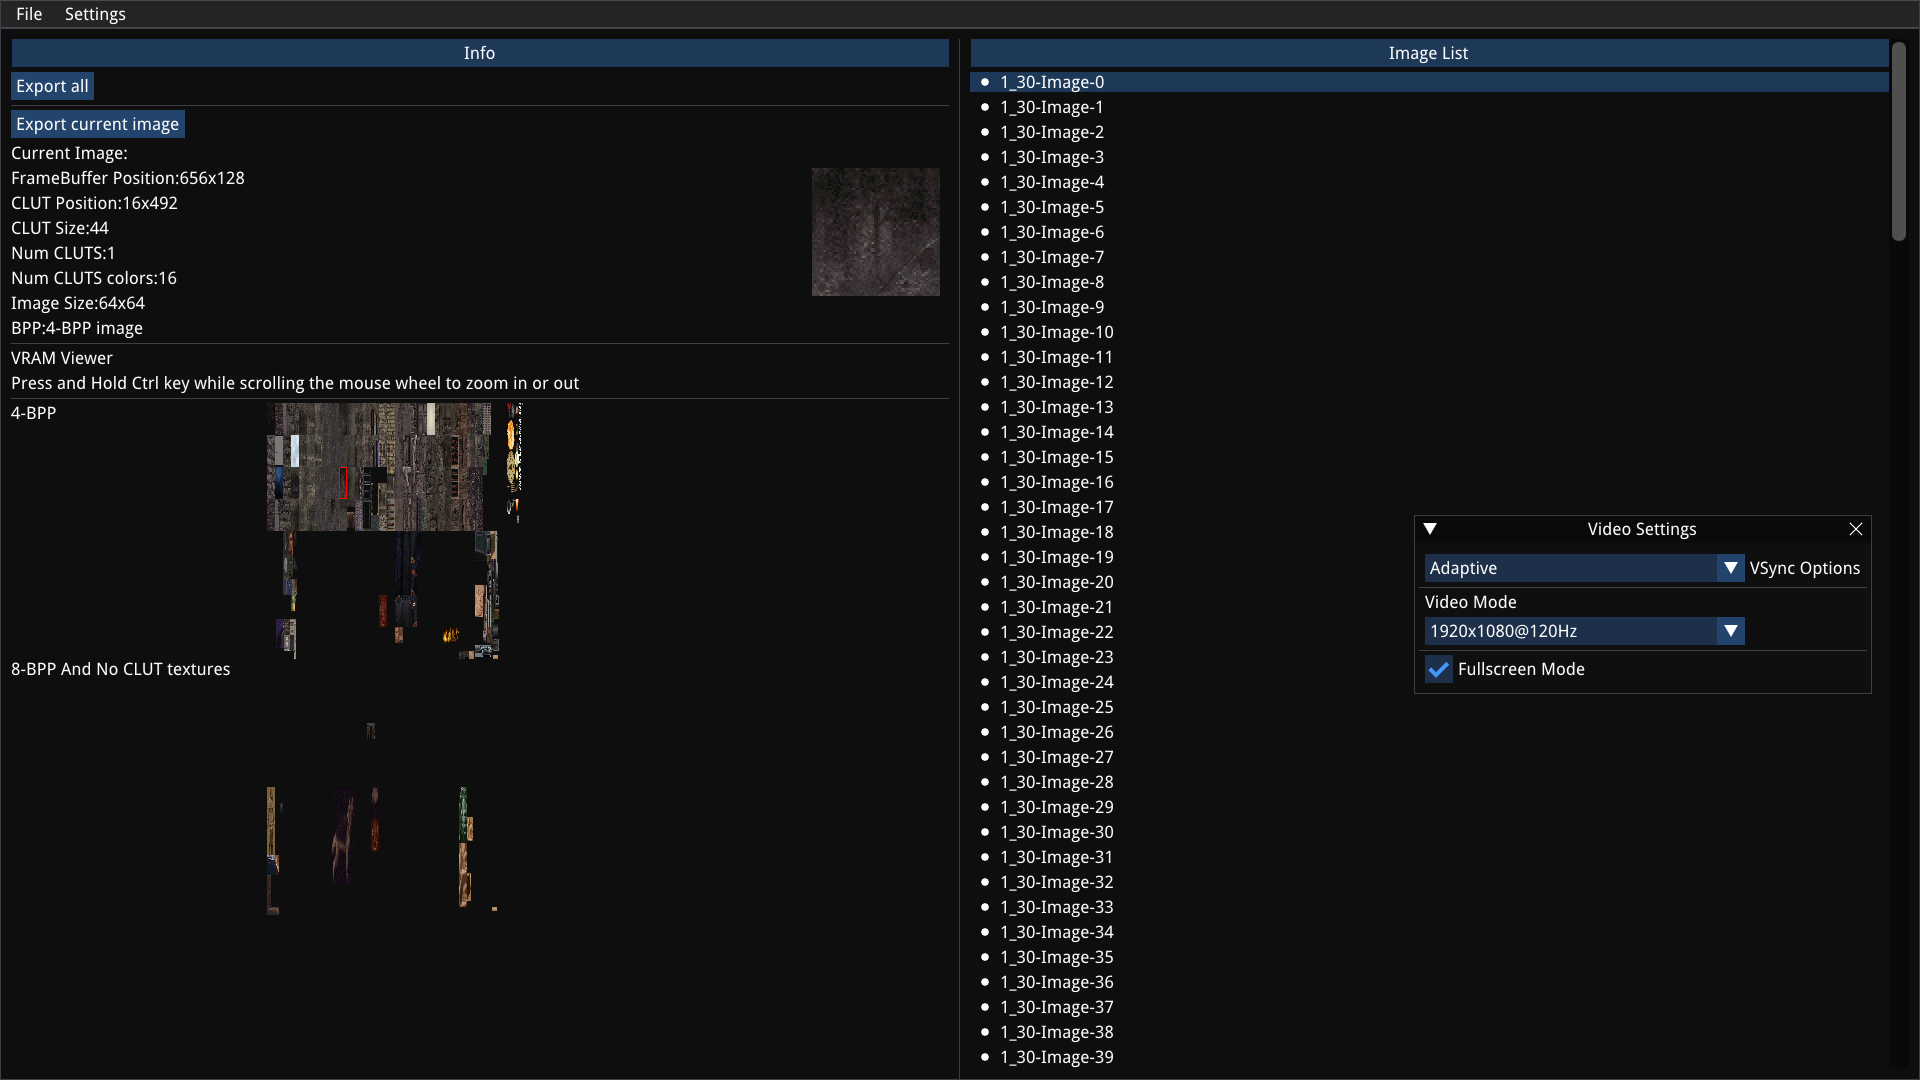
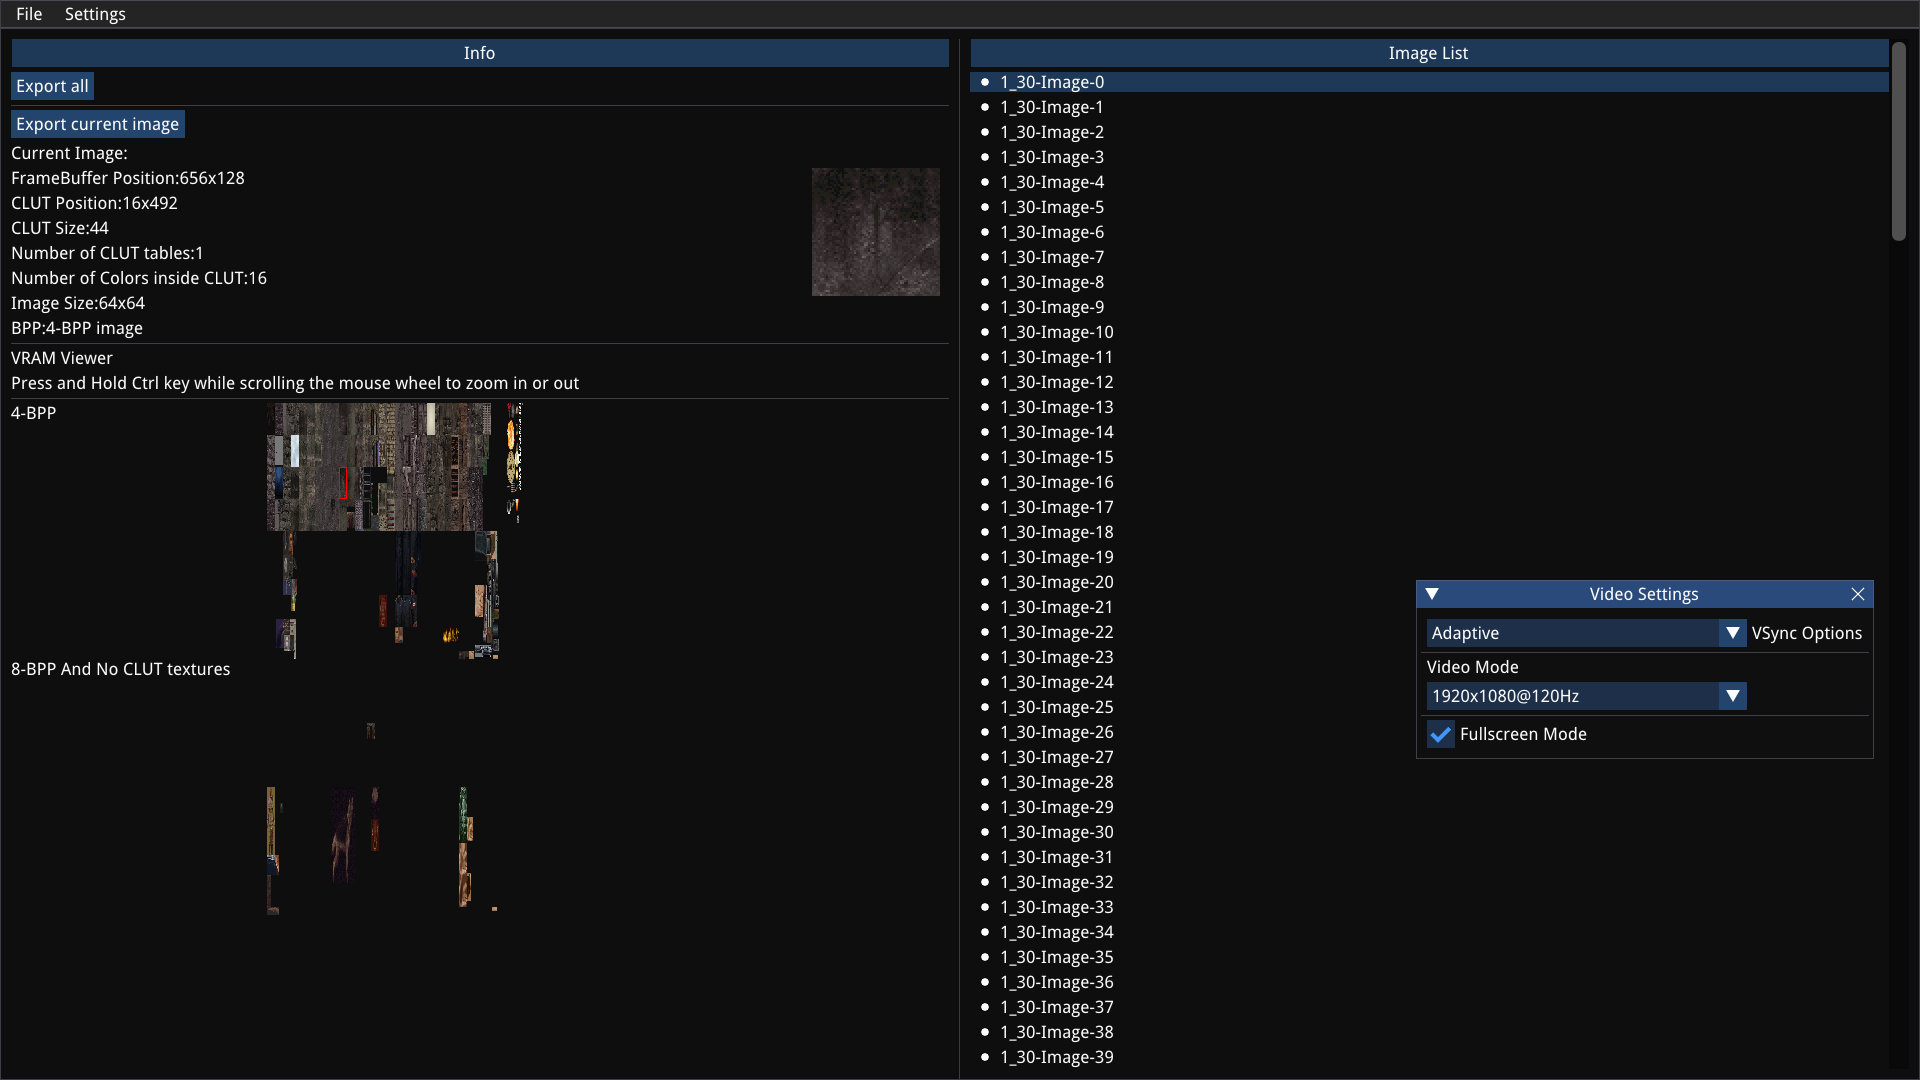
TIMViewer:Fixed spelling in GUI window.Documentation:Updated Image

Changed region(s): [[0.7188, 0.4889, 1.0, 0.7028], [0.0312, 0.2139, 0.125, 0.275]]

diff --git a/src/TIMViewer/GUI.c b/src/TIMViewer/GUI.c
@@ -141,8 +141,8 @@ void GUIDrawTextureWindow(ImageManager_t *ImageManager,float ColumnWidth)
     if( ImageManager->SelectedImage->Header.BPP == TIM_IMAGE_BPP_4 || ImageManager->SelectedImage->Header.BPP == TIM_IMAGE_BPP_8 ) {
         igText("CLUT Position:%ix%i",ImageManager->SelectedImage->Header.CLUTOrgX,ImageManager->SelectedImage->Header.CLUTOrgY);
         igText("CLUT Size:%i",ImageManager->SelectedImage->Header.CLUTSize);
-        igText("Num CLUTS:%i",ImageManager->SelectedImage->Header.NumCLUTs);
-        igText("Num CLUTS colors:%i",ImageManager->SelectedImage->Header.NumCLUTColors);
+        igText("Number of CLUT tables:%i",ImageManager->SelectedImage->Header.NumCLUTs);
+        igText("Number of Colors inside CLUT:%i",ImageManager->SelectedImage->Header.NumCLUTColors);
     } else {
         igText("Image has no CLUT data\n");
     }
